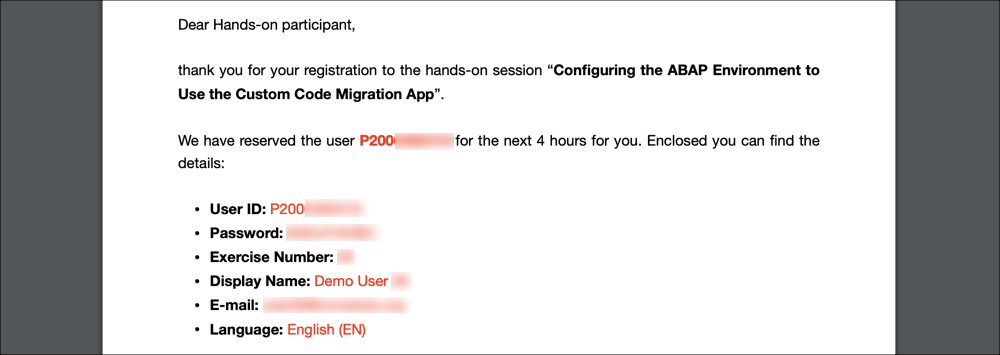
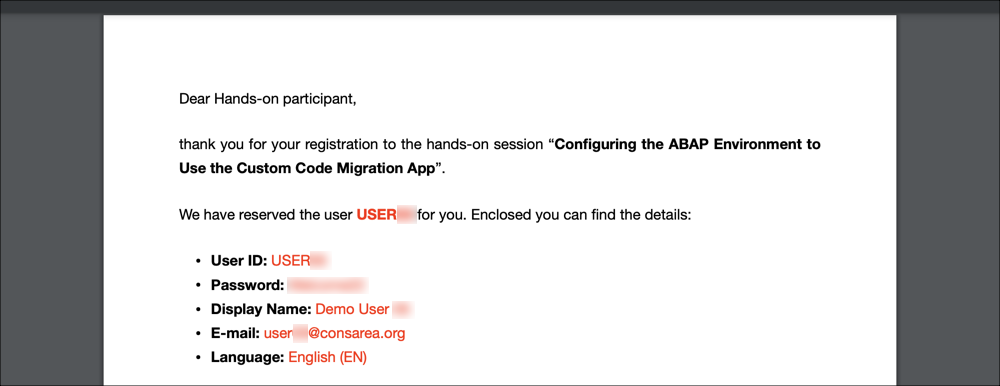
Update Content (Learning Hub)

diff --git a/exercises/README.md b/exercises/README.md
@@ -39,21 +39,12 @@ In the previous exercise [Creating the Workflow Instance](#creating-the-workflow
 As a first task the **Disclaimer** appears on the screen. Read it carefully and choose **I Agree** to continue.<br><br>
 ![](images/Workflow-01.png)<br><br>
 The **Confirm Systems** dialog appears.<br><br>
-For the **Hands-on System**, enter the **Exercise Number** you received in the first exercise [Reserving an Exercise User](#reserving-an-exercise-user) to the field **Exercise Number**.
-
->**IMPORTANT**
->
-> Please be accurate at this point and insert a two digit number. Replace **XX** with your number, for example with **01**. Otherwise, you will not be able to complete the hands-on successfully.
-
-<br>
-
-![](images/Workflow-02.png)<br><br>
 Continue to the **SAP Business Suite System** and choose the option **Via Host**.
-Enter **ccm-backend.demo.consarea.com** as **Central Instance Host**, **001** as **Client**, **ABA** as **SID** (System ID) and **00** as **Central Instance Number**.<br><br>
+Enter **handson.cias.consarea.com** as **Central Instance Host**, **001** as **Client**, **ABA** as **SID** (System ID) and **00** as **Central Instance Number**.<br><br>
 ![](images/Workflow-03.png)<br><br>
 Continue to the **SAP Business Technology Platform** system and enter for the field **Global Account URL** the value **https://cockpit.eu10.hana.ondemand.com/cockpit/#/globalaccount/9930f9c2-22fd-4f27-8237-fa1dc2320e1b**.<br><br>
 ![](images/Workflow-04.png)<br><br>
-Switch to the **Cloud Connector** system and enter **https://cloudconnector.demo.consarea.com:8443** into the field **Access URL**.<br><br>
+Switch to the **Cloud Connector** system and enter **https://handson.cias.consarea.com:8443** into the field **Access URL**.<br><br>
 
 >**HINT**
 >
